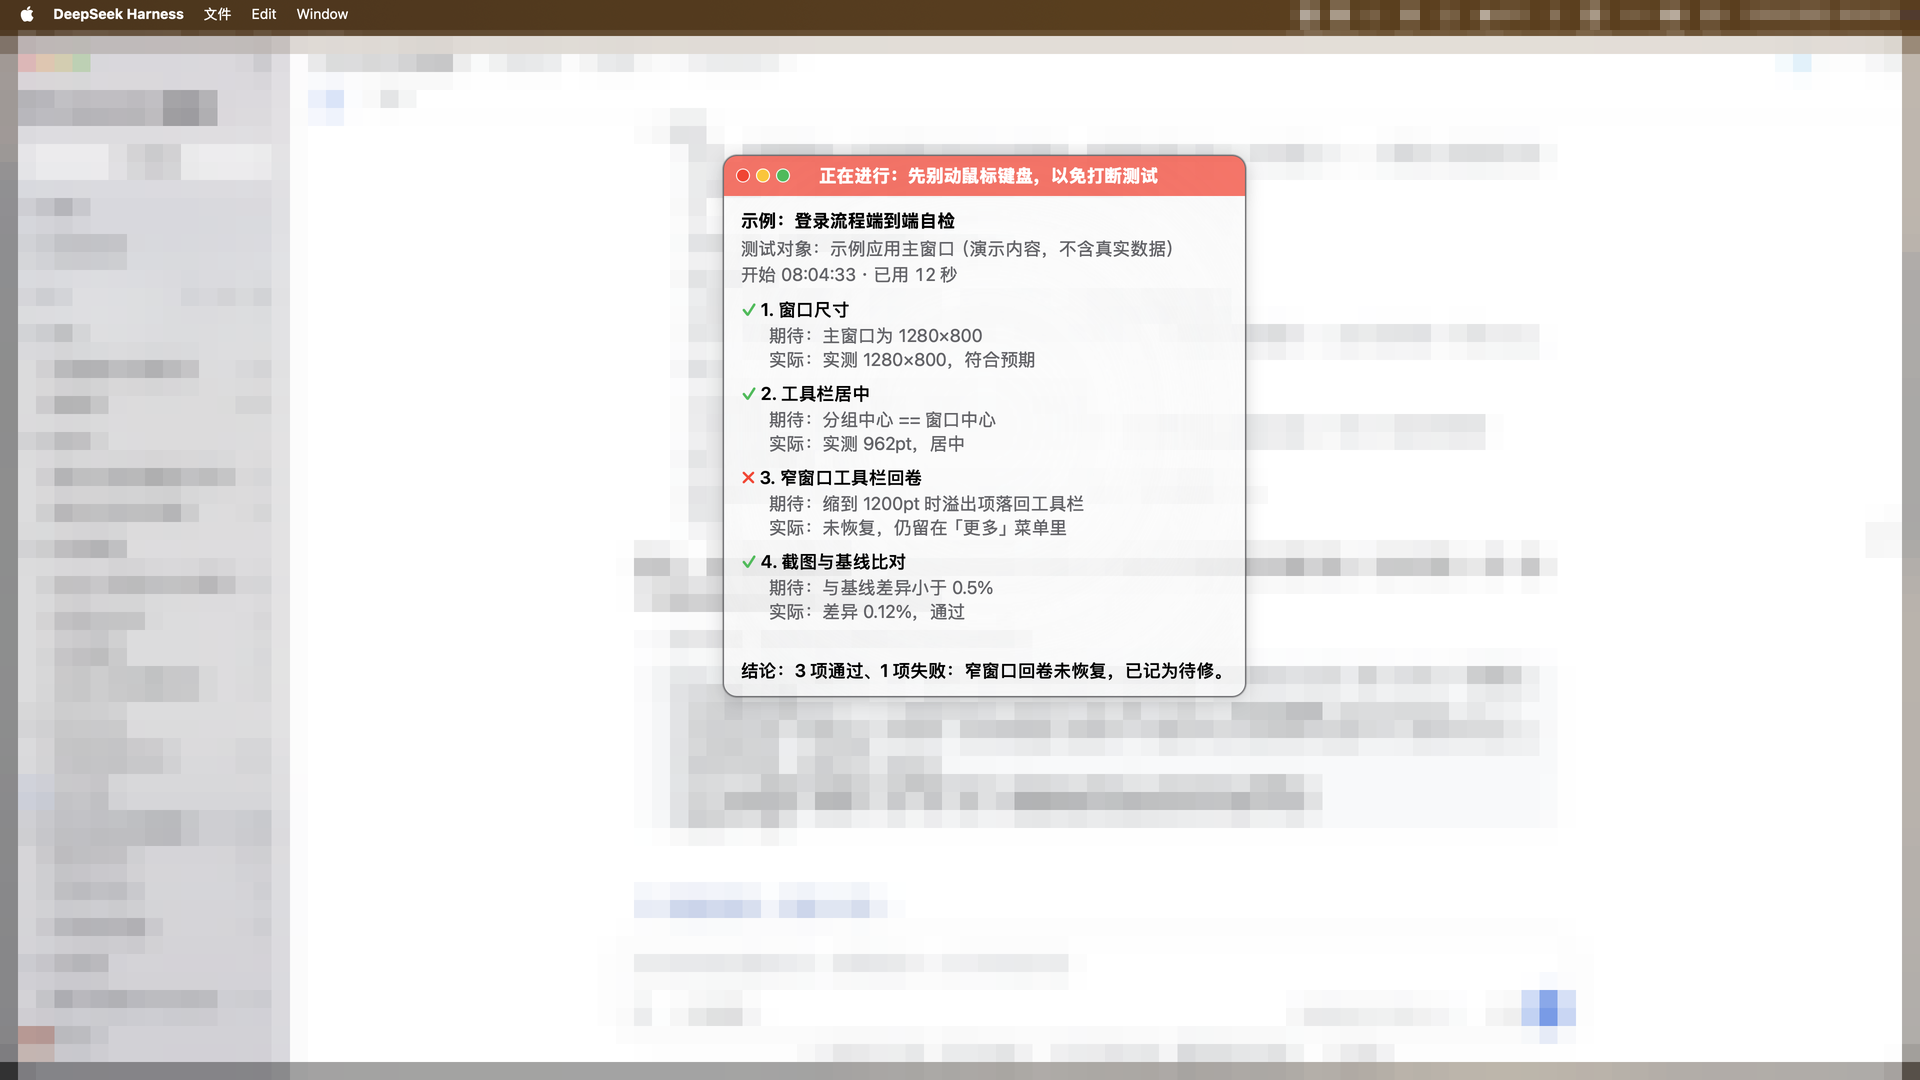
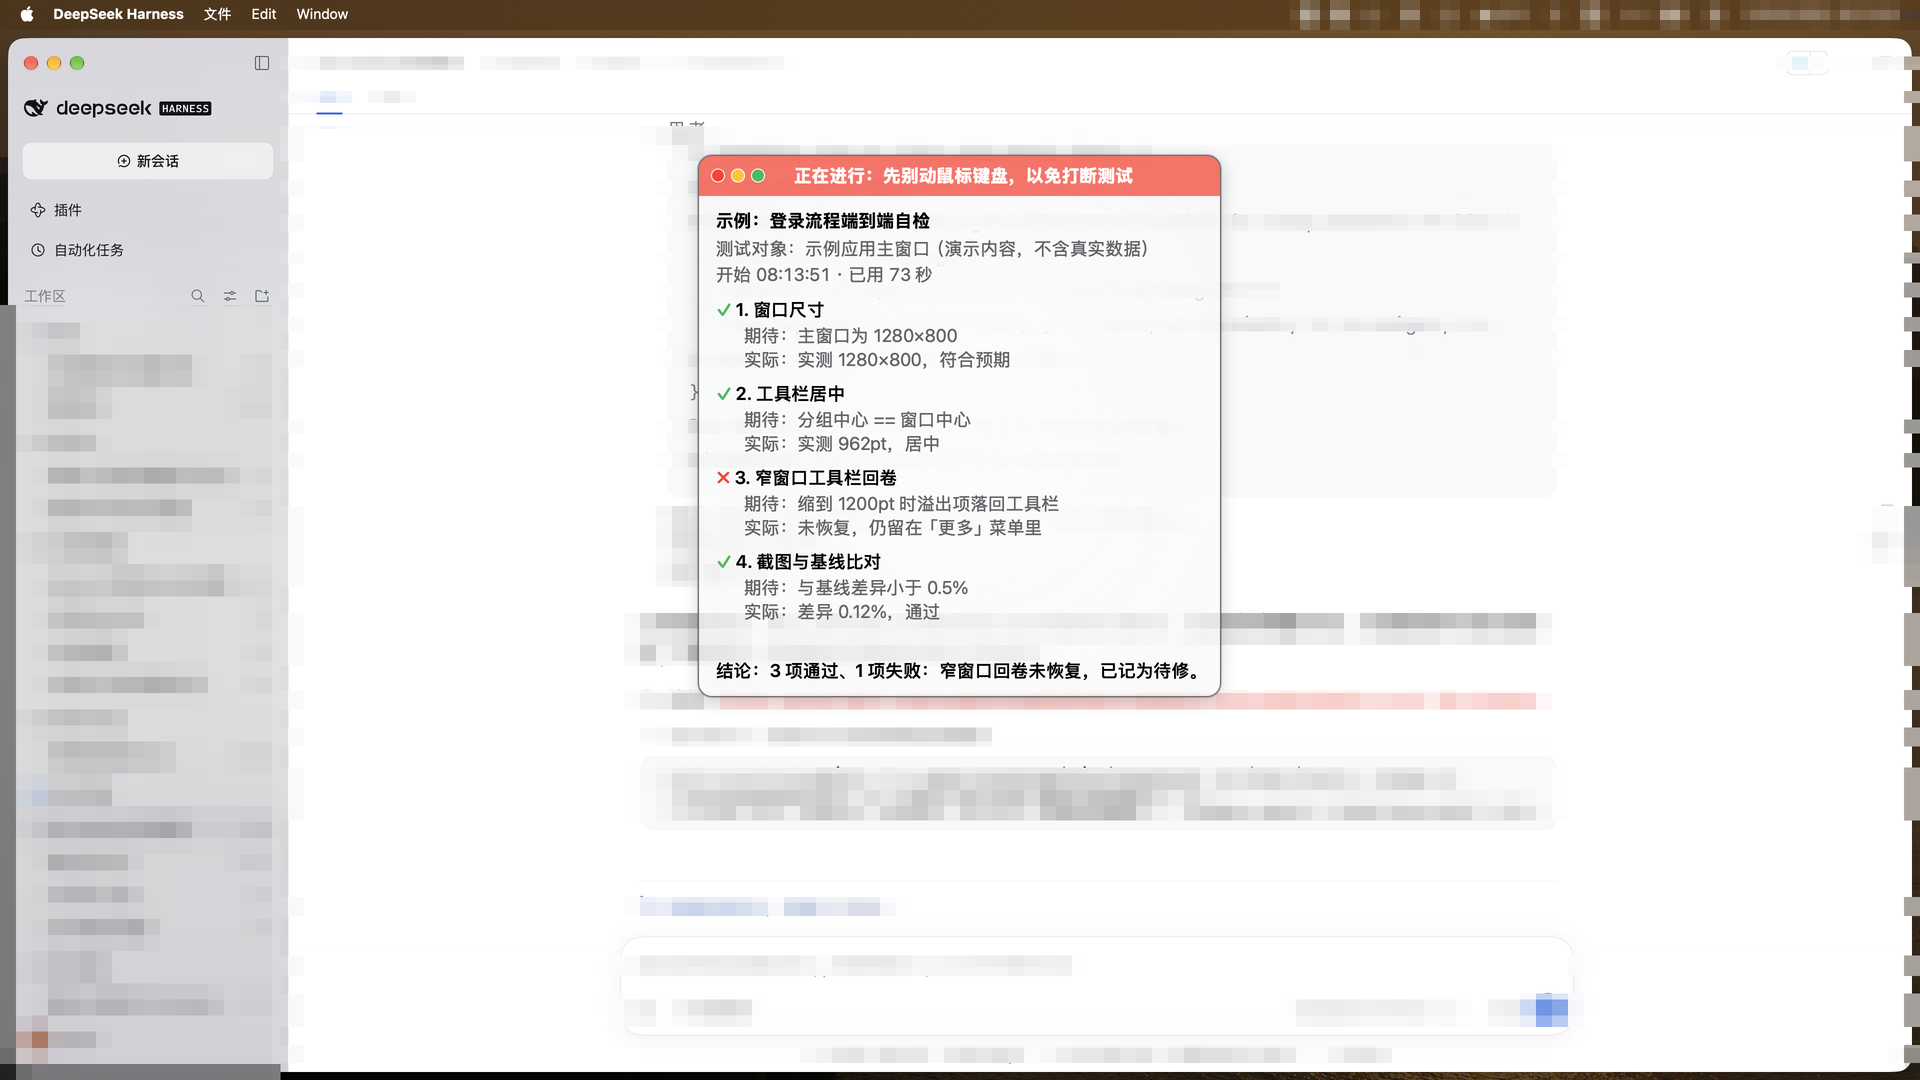
展示图按区域精确打码，并去掉文档里的自解释废话
- 展示图仍是全屏构图，但打码改为按区域/文字行处理：
  侧栏只打「工作区」以下（含左下角名字），对话区保留外框与输入框、只去掉框内文字
- 打码不再依赖 OCR（实测会漏掉浅灰小字与红字）：改用像素级分块行投影，
  右侧滚动条带排除在检测之外，避免满行噪声
- README 两版删掉图下的说明句；STATUS 增加「文档风格」：不写关于文档自身的说明

diff --git a/README.md b/README.md
@@ -4,8 +4,6 @@ An always-on-top, click-through progress panel for automated tests in [DeepSeek 
 
 ![the panel](assets/panel.png)
 
-*Full-screen shot: the panel floating over a live session window. The window's content, the sidebar text and the menu-bar icon area are masked.*
-
 ## Why it exists
 
 When an agent drives a GUI, compares screenshots or renders a batch for a few minutes, the human just sits there: they cannot tell which step it is on, what the step expects, whether it already failed, or — the question that actually matters — **whether it is safe to touch the mouse and keyboard again**.

diff --git a/README.zh.md b/README.zh.md
@@ -4,8 +4,6 @@
 
 ![浮层长这样](assets/panel.png)
 
-*全屏实拍：浮层压在会话窗口之上。窗口正文、侧栏文字与菜单栏图标区均已打码。*
-
 ## 为什么要有它
 
 agent 驱动 GUI、比对截图、批量渲染，一跑就是几分钟。这段时间里等的人什么都不知道：跑到第几步、这一步期待什么、是不是已经失败了，以及最要紧的那个问题——**现在能不能动鼠标键盘了**。
